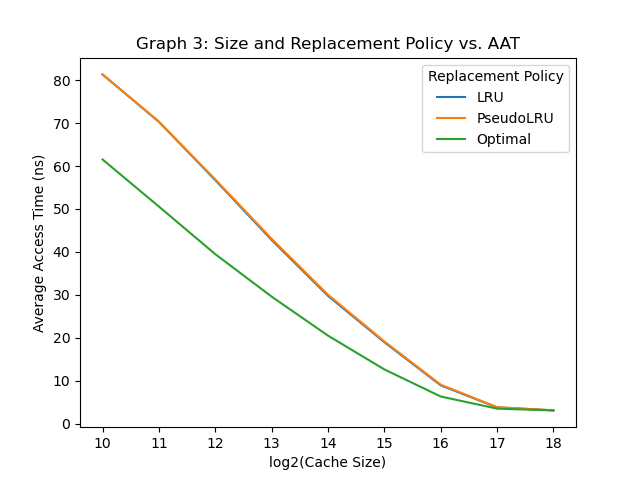
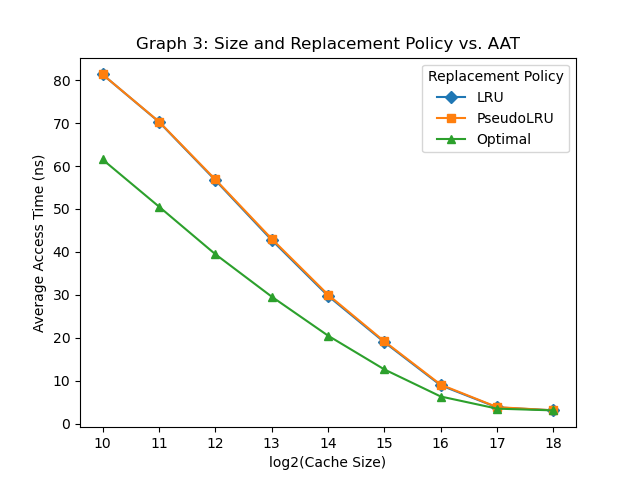
finished graphing code and fixed logging in sim_cache (for L2 stats), add graphs

diff --git a/hw/MachineProblem1_Fall2021/cachesim/simulation_manager.py b/hw/MachineProblem1_Fall2021/cachesim/simulation_manager.py
@@ -163,10 +163,16 @@ if __name__ == "__main__":
 		2: "Optimal"
 	}
 
+	policy_markers = {
+		0: 'D', 
+		1: 's', 
+		2: '^'
+	}
+
 	for r in [0, 1, 2]:
 		x = [math.log2(rep_pols[r][i][0]) for i in range(len(rep_pols[r]))]
 		y = [rep_pols[r][i][1] for i in range(len(rep_pols[r]))]
-		plt.plot(x, y, label = policy_mapping[r])
+		plt.plot(x, y, marker = policy_markers[r], label = policy_mapping[r])
 		plt.legend(title = "Replacement Policy", loc = "upper right")
 
 	plt.savefig("graph_logs/graph3.png")
@@ -200,15 +206,21 @@ if __name__ == "__main__":
 				  (l2_readmisses / (l1_reads + l1_writes)) * 100
 
 			inc_prop[inclusion].append((size, aat))
-			print("(graph 3) size: {}\t | rep_pol: {}\t | AAT (ns): {}".format(size, rep_pol, aat))
+			print("(graph 4) size: {}\t | inclusion prop: {}\t | AAT (ns): {}".format(size, inclusion, aat))
 			g4_count += 1
 
 		print("----------------------------------------------------------------------")
 
+	print("\nGRAPH4 SIMULATIONS PLOTTED:", g4_count, '\n')
+
+	plt.title("Graph 4: Size and Inclusion Property vs. AAT")
+	plt.xlabel("log2(Cache Size)")
+	plt.ylabel("Average Access Time (ns)")
+
 	for inc in [0, 1]:
 		x = [math.log2(inc_prop[inc][i][0]) for i in range(len(inc_prop[inc]))]
 		y = [inc_prop[inc][i][1] for i in range(len(inc_prop[inc]))]
-		plt.plot(x, y, label = "inclusive" if inc else "non-inclusive")
+		plt.plot(x, y, marker = 'o' if inc else 's', label = "inclusive" if inc else "non-inclusive")
 		plt.legend(title = "Inclusion Property", loc = "upper right")
 
 	plt.savefig("graph_logs/graph4.png")

diff --git a/hw/MachineProblem1_Fall2021/cachesim/sim_cache.cpp b/hw/MachineProblem1_Fall2021/cachesim/sim_cache.cpp
@@ -395,7 +395,7 @@ class Cache
             total_mem_traffic += read_misses + write_misses + writebacks;
             
             // for arrangements of output, see my python script
-            if (cache_level == 1 && silent != 0)
+            if (size > 0 && silent != 0)
             {
                 // logfile.open("graph_logs/output.csv", ios::app);
 
